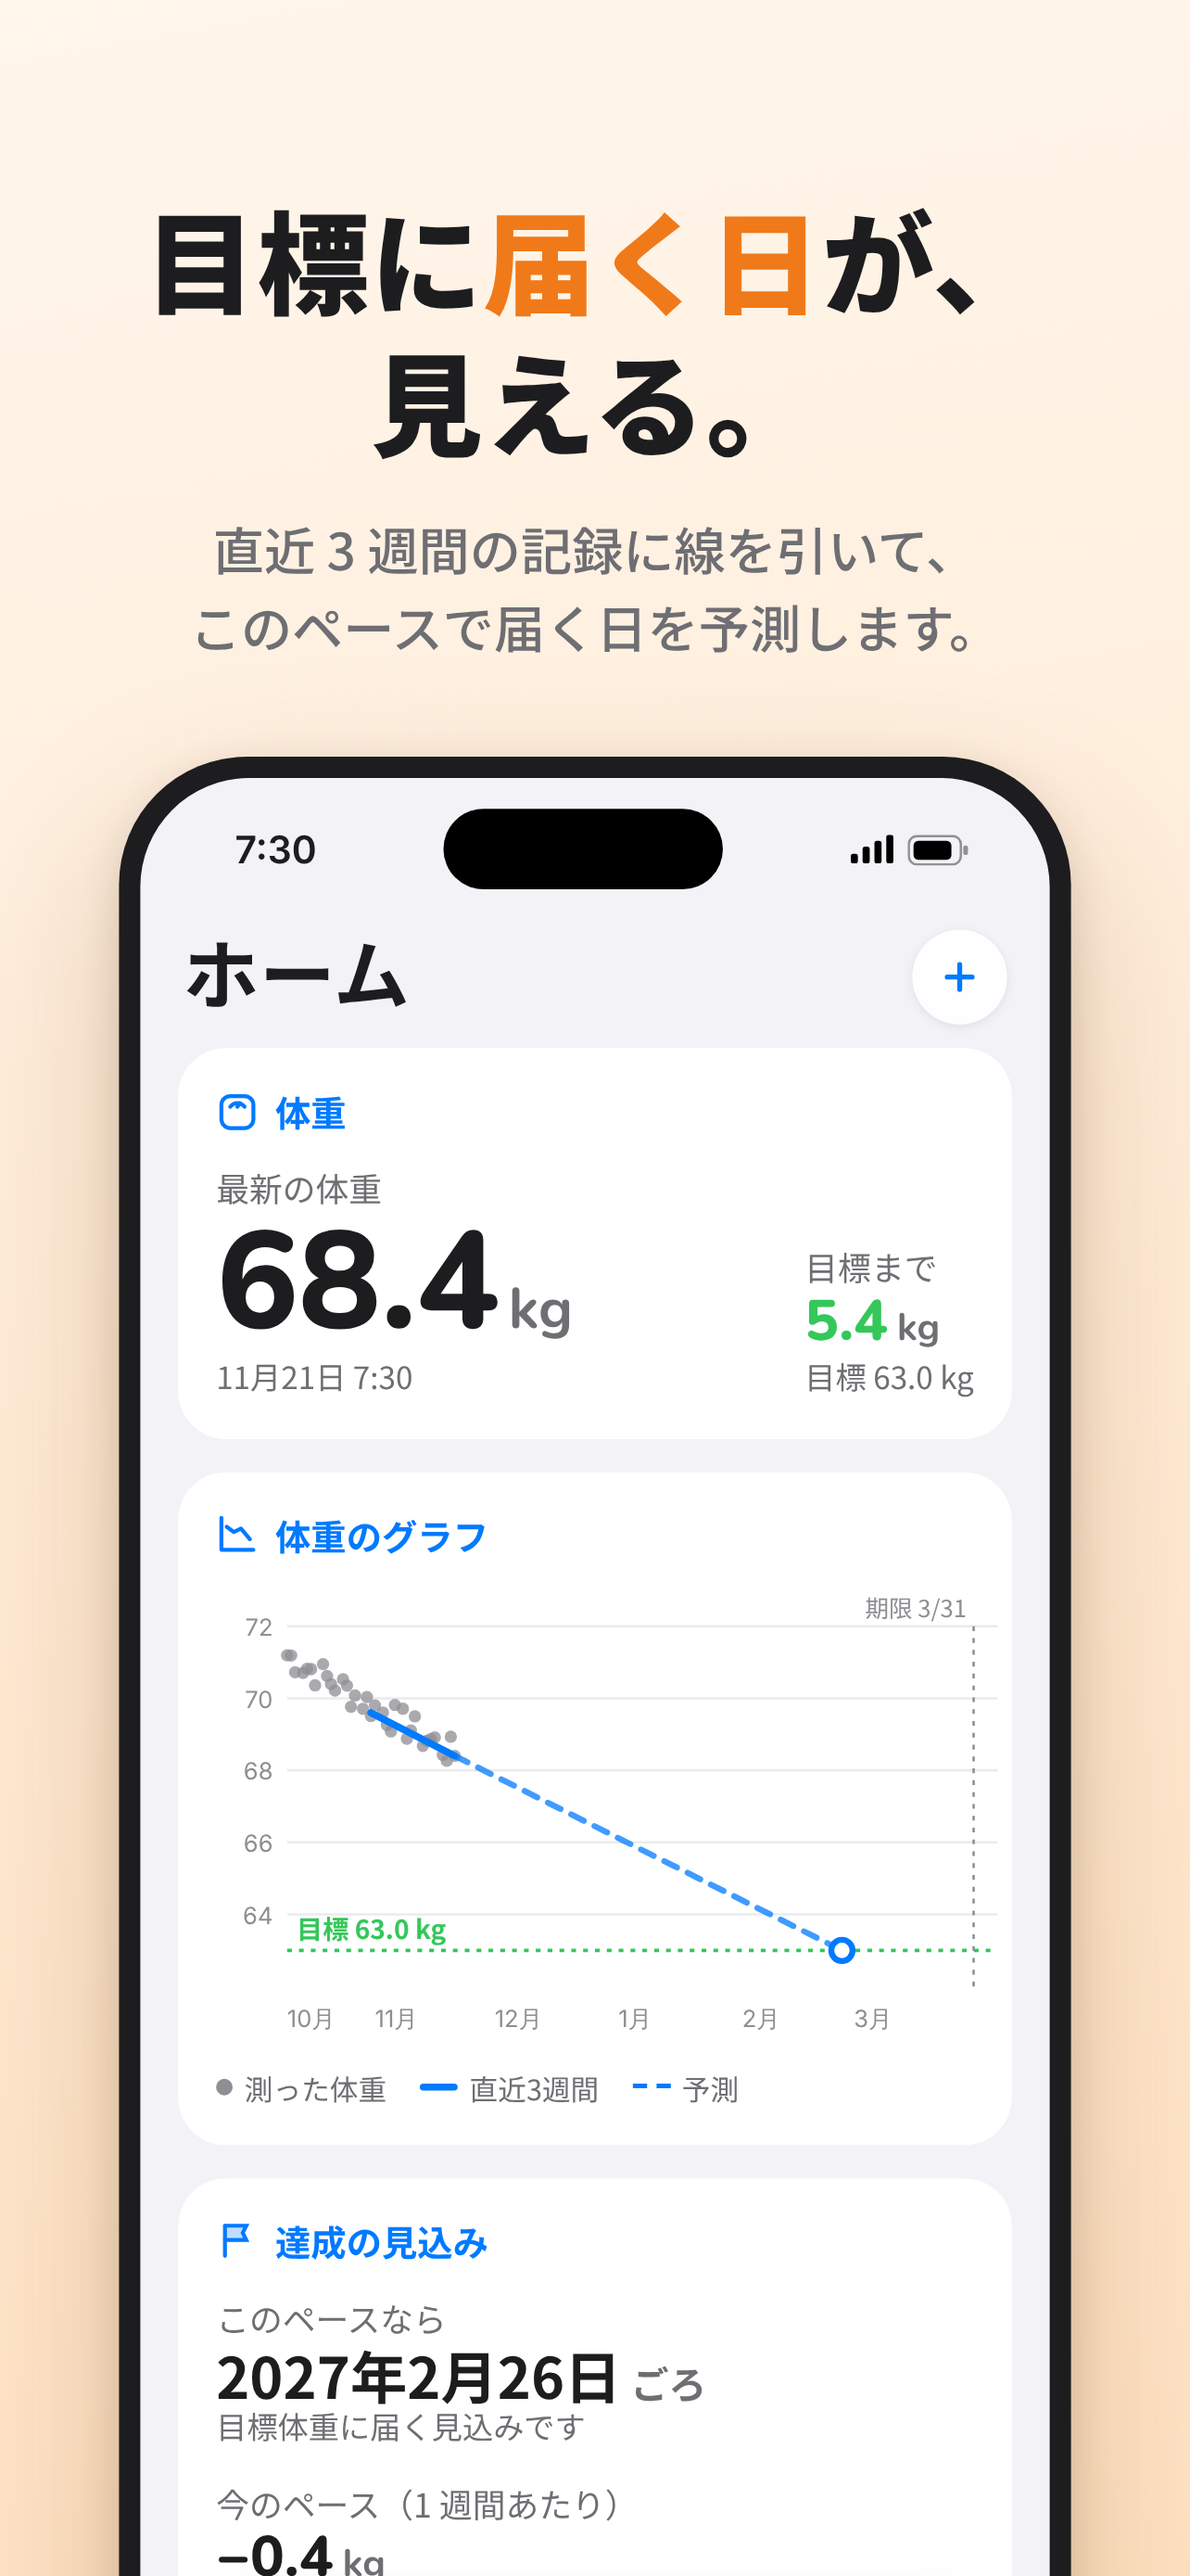
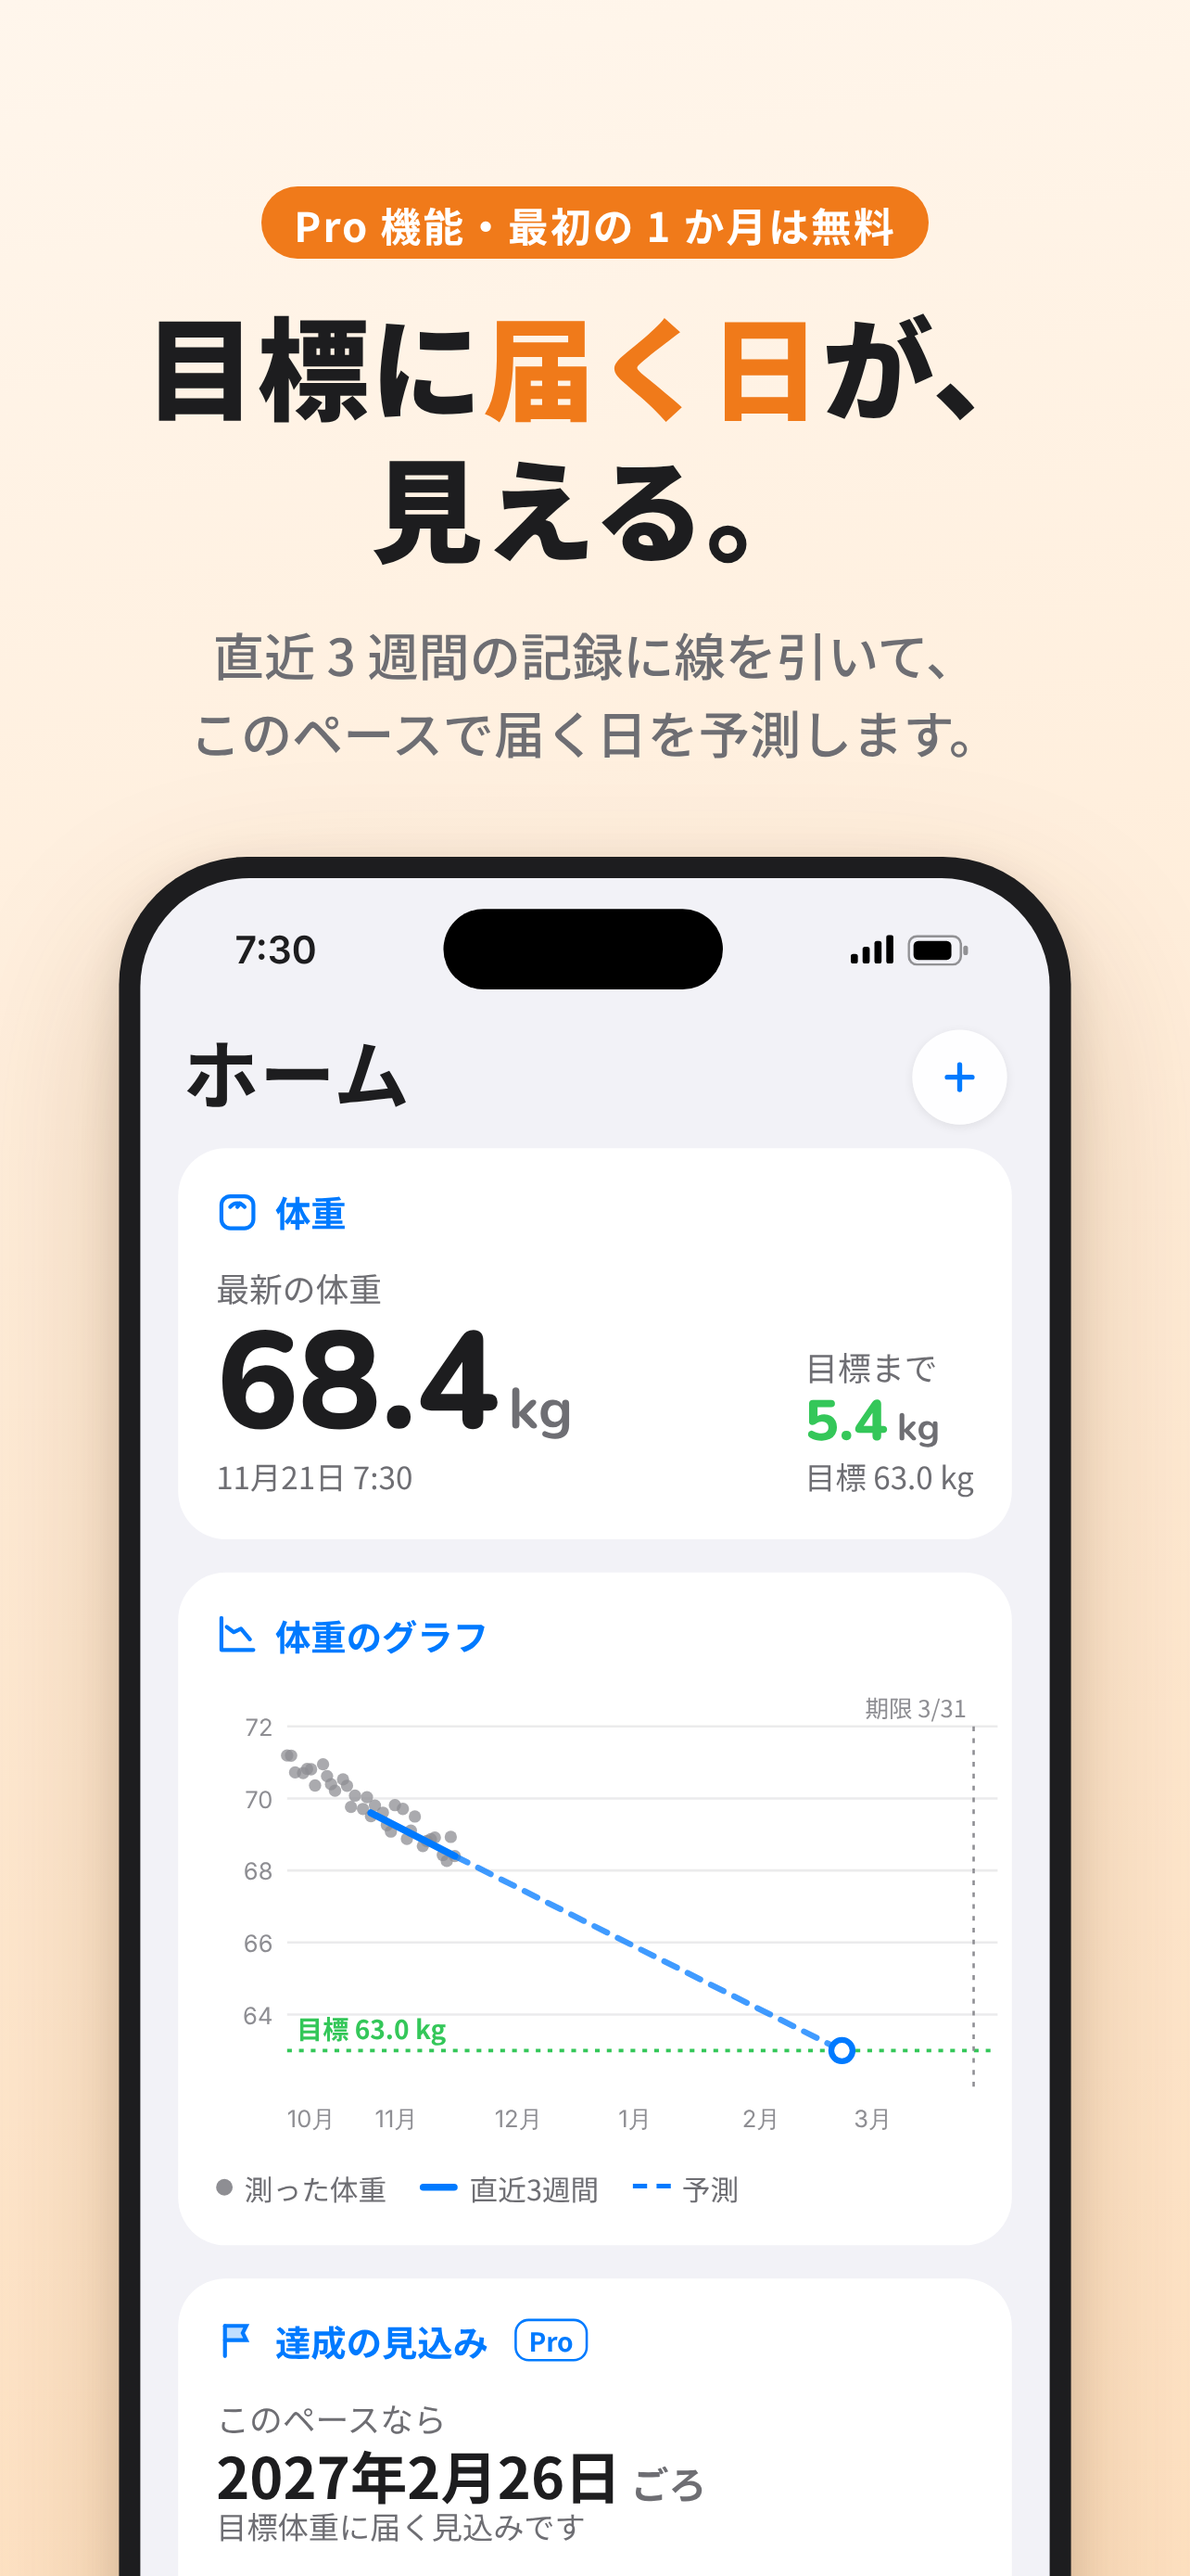
App Store の文章と画像を、届く日の予測を Pro にする分け方に合わせる
届く日の予測・予測の幅・チートデーを Pro（最初の 1 か月は無料）として説明文・
プロモーションテキスト・画像の札に明記（審査ガイドライン 2.3.2）。
無料体験は 0 円の非消耗型アプリ内課金で作ること（ガイドライン 3.1.1）も記録。

Claude-Session: https://claude.ai/code/session_01HgqWwdhngGoEstZSiSDXaE

diff --git a/docs/app-store/source/screens.html b/docs/app-store/source/screens.html
@@ -211,13 +211,13 @@ const shots = {
       </div>`,
   },
   2: { // 予測
-    h: `目標に<em>届く日</em>が、<br>見える。`, p: `直近 3 週間の記録に線を引いて、<br>このペースで届く日を予測します。`,
+    pro: true, h: `目標に<em>届く日</em>が、<br>見える。`, p: `直近 3 週間の記録に線を引いて、<br>このペースで届く日を予測します。`,
     screen: () => `${status()}<div>${nav("ホーム")}</div><div class="content">
       ${card("体重", I.scale, `<div class="row">${metric("最新の体重", "68.4", "kg", "hero", { caption: "11月21日 7:30" })}${metric("目標まで", "5.4", "kg", "medium", { color: "#34C759", caption: "目標 63.0 kg" })}</div>`)}
       ${card("体重のグラフ", I.chart, `${chart()}${legend()}`)}
       ${card("達成の見込み", I.flag, `${metric("このペースなら", "2027年2月26日", "ごろ", "medium", { jp: true, caption: "目標体重に届く見込みです" })}
         ${metric("今のペース（1 週間あたり）", "−0.4", "kg", "medium")}
-        ${notice("期限に間に合うペースです", "ok")}`)}
+        ${notice("期限に間に合うペースです", "ok")}`, { badge: "Pro" })}
     </div>${tabbar(0)}`,
   },
   3: { // カロリー・目標
@@ -294,7 +294,7 @@ const vw = innerWidth, vh = innerHeight;
 const scale = (vw * 0.80) / 402;
 document.documentElement.style.setProperty("--scale", scale);
 document.getElementById("canvas").innerHTML = `
-  <div class="head">${s.pro ? `<div class="pro">Pro 機能（買い切り）</div>` : ""}<h1>${s.h}</h1><p>${s.p}</p></div>
+  <div class="head">${s.pro ? `<div class="pro">Pro 機能・最初の 1 か月は無料</div>` : ""}<h1>${s.h}</h1><p>${s.p}</p></div>
   <div class="phone"><div class="screen">${s.screen()}</div></div>`;
 // 見出しの高さ（2 行か 3 行か）に合わせて、画面のモックをすぐ下に置く
 const headBottom = document.querySelector(".head").getBoundingClientRect().bottom;
